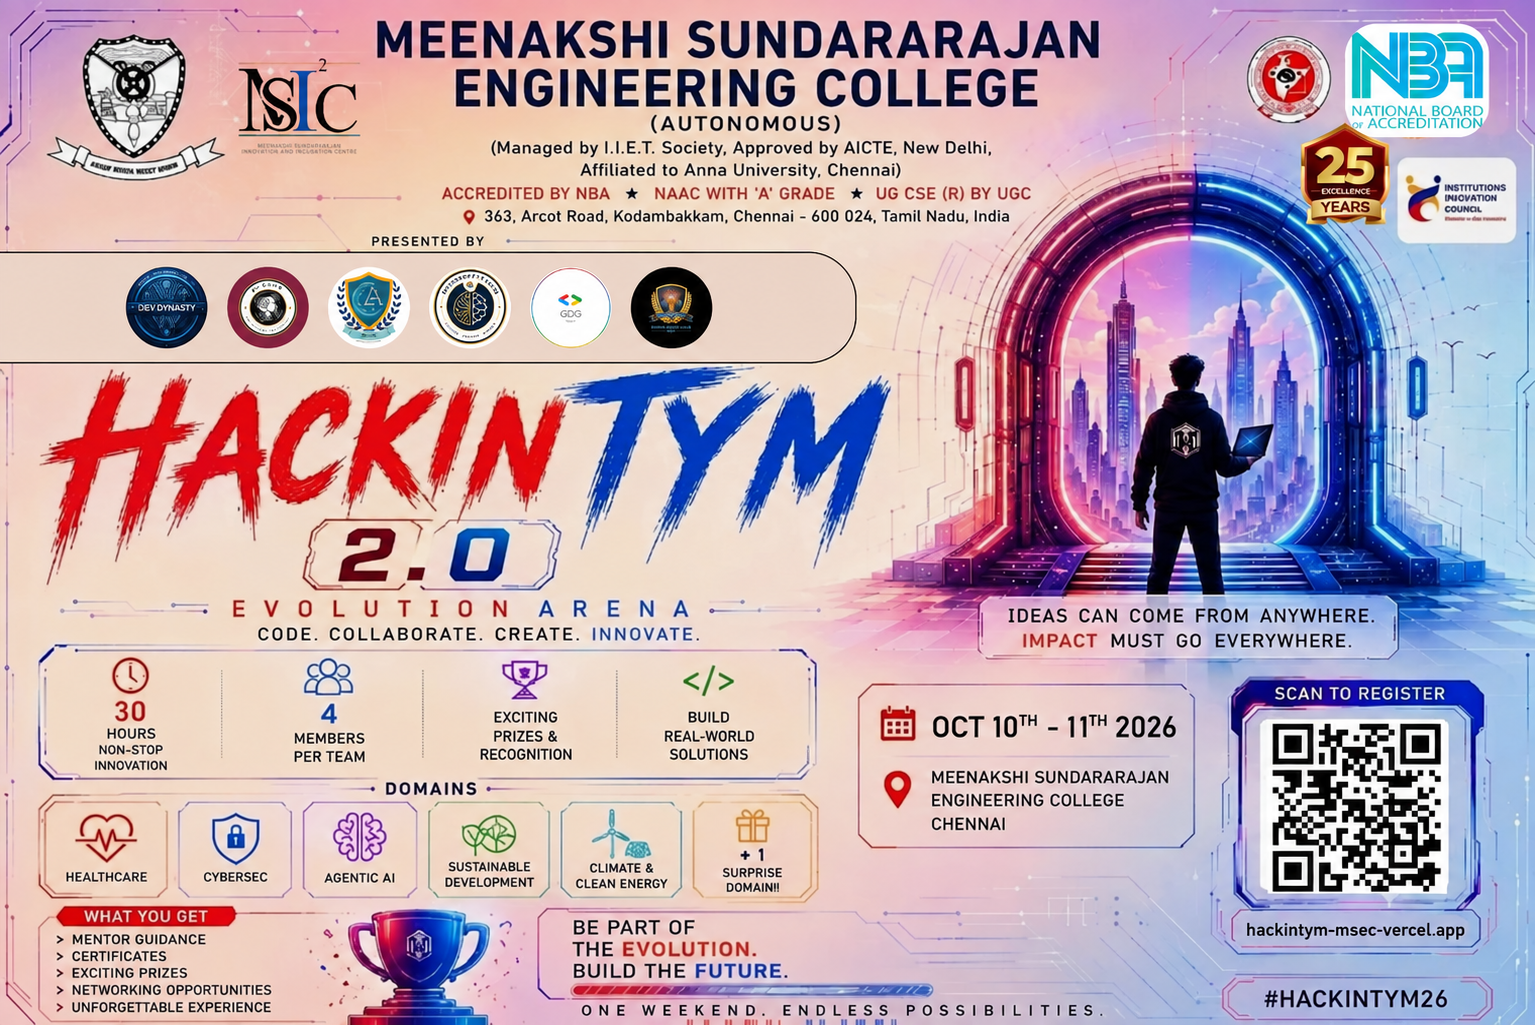
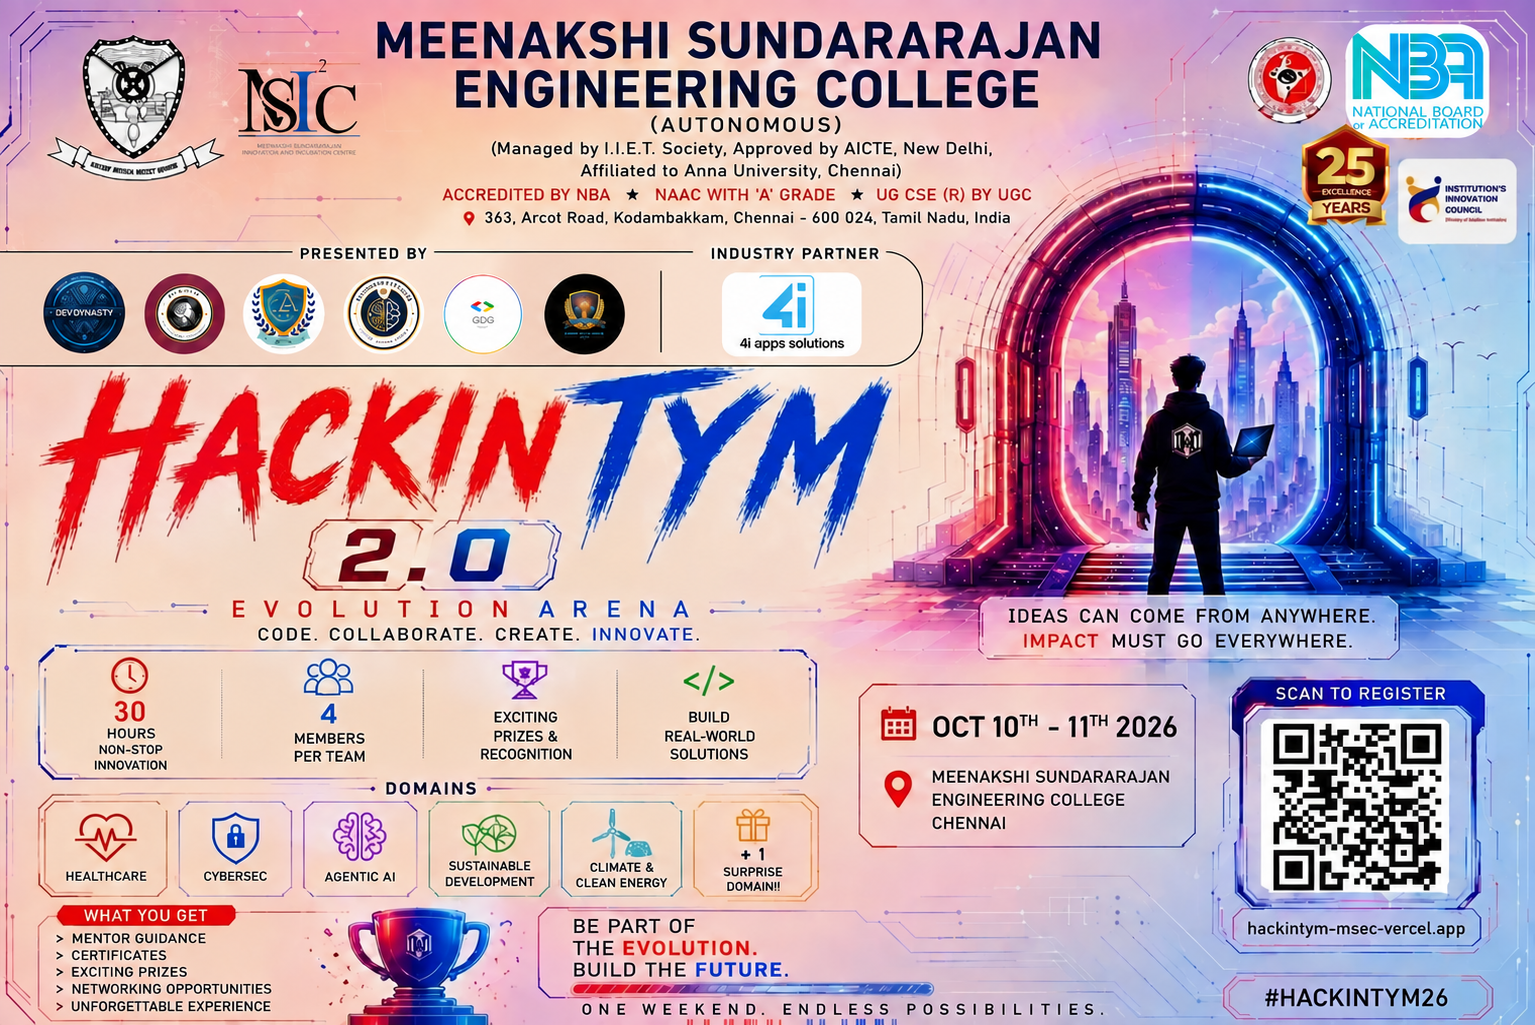
Industry Partner and New Poster Updated

diff --git a/components/main/HeroSection.tsx b/components/main/HeroSection.tsx
@@ -59,27 +59,61 @@ export const HeroSection = forwardRef<HTMLDivElement, HeroSectionProps>(
             </div>
           </div>
 
-          {/* Club Logos in Round Frames */}
+          {/* Club Logos in Round Frames & Industry Partner */}
           <div 
             data-hero-logos
-            className="mt-6 sm:mt-8 flex flex-wrap items-center justify-center gap-3.5 sm:gap-5 md:gap-6 opacity-0"
+            className="mt-6 sm:mt-8 flex flex-col items-center justify-center gap-4 sm:gap-5 opacity-0"
           >
-            {CLUB_LOGOS.map((logo) => (
-              <motion.div 
-                key={logo.id}
-                whileHover={{ scale: 1.15, y: -4 }}
-                transition={{ type: "spring", stiffness: 400, damping: 17 }}
-                className="w-14 h-14 xs:w-16 xs:h-16 sm:w-20 sm:h-20 md:w-22 md:h-22 rounded-full p-[2.5px] bg-gradient-to-tr from-intel-blue via-intel-blue-light to-power-red shadow-[0_0_20px_rgba(0,102,255,0.4)] hover:shadow-[0_0_30px_rgba(0,200,255,0.7)] flex items-center justify-center overflow-hidden shrink-0 transition-all duration-300 group cursor-pointer"
-              >
-                <div className="w-full h-full rounded-full bg-black/90 p-2 sm:p-3 flex items-center justify-center overflow-hidden">
-                  <img 
-                    src={logo.src} 
-                    alt={logo.alt} 
-                    className="w-full h-full object-contain rounded-full transition-transform duration-300 group-hover:scale-105" 
-                  />
-                </div>
-              </motion.div>
-            ))}
+            <div className="flex flex-wrap items-center justify-center gap-3.5 sm:gap-5 md:gap-6">
+              {CLUB_LOGOS.map((logo) => (
+                <motion.div 
+                  key={logo.id}
+                  whileHover={{ scale: 1.15, y: -4 }}
+                  transition={{ type: "spring", stiffness: 400, damping: 17 }}
+                  className="w-14 h-14 xs:w-16 xs:h-16 sm:w-20 sm:h-20 md:w-22 md:h-22 rounded-full p-[2.5px] bg-gradient-to-tr from-intel-blue via-intel-blue-light to-power-red shadow-[0_0_20px_rgba(0,102,255,0.4)] hover:shadow-[0_0_30px_rgba(0,200,255,0.7)] flex items-center justify-center overflow-hidden shrink-0 transition-all duration-300 group cursor-pointer"
+                >
+                  <div className="w-full h-full rounded-full bg-black/90 p-2 sm:p-3 flex items-center justify-center overflow-hidden">
+                    <img 
+                      src={logo.src} 
+                      alt={logo.alt} 
+                      className="w-full h-full object-contain rounded-full transition-transform duration-300 group-hover:scale-105" 
+                    />
+                  </div>
+                </motion.div>
+              ))}
+            </div>
+
+            {/* Official Industry Partner Pill */}
+            <motion.a
+              href="#partner"
+              onClick={(e) => {
+                e.preventDefault()
+                const partnerElem = document.getElementById("partner")
+                if (partnerElem) {
+                  const yOffset = -70
+                  const y = partnerElem.getBoundingClientRect().top + window.pageYOffset + yOffset
+                  window.scrollTo({ top: y, behavior: "smooth" })
+                }
+              }}
+              whileHover={{ scale: 1.04, y: -2 }}
+              whileTap={{ scale: 0.97 }}
+              className="mt-1 sm:mt-2 inline-flex items-center gap-2.5 sm:gap-3 px-4 py-1.5 sm:py-2 rounded-full bg-black/60 border border-intel-blue/40 shadow-[0_0_20px_rgba(0,102,255,0.25)] hover:border-intel-blue hover:shadow-[0_0_30px_rgba(0,200,255,0.5)] backdrop-blur-xl transition-all cursor-pointer group"
+            >
+              <span className="text-[10px] sm:text-xs font-mono tracking-widest text-intel-blue-light uppercase font-semibold">
+                INDUSTRY PARTNER:
+              </span>
+              <div className="h-6 w-auto px-2 py-0.5 rounded bg-white flex items-center justify-center shadow-sm">
+                <img 
+                  src="/logos/4iapps.png" 
+                  alt="4i apps solutions" 
+                  className="h-4.5 w-auto object-contain" 
+                />
+              </div>
+              <span className="text-xs sm:text-sm font-bold tracking-wider text-white group-hover:text-intel-blue-light transition-colors uppercase">
+                4i APPS SOLUTIONS
+              </span>
+              <ArrowRight className="w-3.5 h-3.5 text-intel-blue-light group-hover:translate-x-1 transition-transform" />
+            </motion.a>
           </div>
 
         </div>

diff --git a/components/main/IndustryPartnerSection.tsx b/components/main/IndustryPartnerSection.tsx
@@ -1,0 +1,67 @@
+"use client"
+
+import { useRef } from "react"
+import { motion, useInView } from "framer-motion"
+
+export function IndustryPartnerSection() {
+  const ref = useRef(null)
+  const isInView = useInView(ref, { once: true, margin: "-10%" })
+
+  return (
+    <section
+      ref={ref}
+      id="partner"
+      className="relative py-20 sm:py-28 px-4 sm:px-6 z-10 overflow-hidden"
+    >
+      {/* Background Ambient Glow */}
+      <div className="absolute top-1/2 left-1/2 -translate-x-1/2 -translate-y-1/2 w-[500px] h-[350px] bg-[radial-gradient(circle,rgba(0,102,255,0.18)_0%,rgba(0,200,255,0.05)_50%,transparent_70%)] blur-[80px] pointer-events-none" />
+
+      <div className="max-w-4xl mx-auto relative flex flex-col items-center text-center">
+        {/* Heading */}
+        <motion.div
+          initial={{ opacity: 0, y: 20 }}
+          animate={isInView ? { opacity: 1, y: 0 } : { opacity: 0, y: 20 }}
+          transition={{ duration: 0.8 }}
+          className="mb-8 sm:mb-12"
+        >
+          <h2 className="text-4xl sm:text-6xl md:text-7xl font-black tracking-tighter uppercase text-white">
+            Industry{" "}
+            <span className="text-transparent bg-clip-text bg-gradient-to-r from-intel-blue via-intel-blue-light to-power-red">
+              Partner
+            </span>
+          </h2>
+        </motion.div>
+
+        {/* Logo and Company Name */}
+        <motion.div
+          initial={{ opacity: 0, scale: 0.95, y: 20 }}
+          animate={isInView ? { opacity: 1, scale: 1, y: 0 } : { opacity: 0, scale: 0.95, y: 20 }}
+          transition={{ duration: 0.8, delay: 0.2 }}
+          className="w-full max-w-sm sm:max-w-md"
+        >
+          <div className="relative rounded-3xl p-6 sm:p-8 bg-black/60 border border-white/15 backdrop-blur-2xl shadow-[0_0_50px_rgba(0,102,255,0.25)] hover:border-intel-blue/60 hover:shadow-[0_0_60px_rgba(0,200,255,0.4)] transition-all overflow-hidden flex flex-col items-center">
+            {/* Tech Corner Accents */}
+            <div className="absolute top-4 left-4 w-3.5 h-3.5 border-t-2 border-l-2 border-intel-blue-light/70 pointer-events-none" />
+            <div className="absolute top-4 right-4 w-3.5 h-3.5 border-t-2 border-r-2 border-power-red/70 pointer-events-none" />
+            <div className="absolute bottom-4 left-4 w-3.5 h-3.5 border-b-2 border-l-2 border-power-red/70 pointer-events-none" />
+            <div className="absolute bottom-4 right-4 w-3.5 h-3.5 border-b-2 border-r-2 border-intel-blue-light/70 pointer-events-none" />
+
+            {/* Logo */}
+            <div className="w-full rounded-2xl p-6 sm:p-8 bg-white flex items-center justify-center shadow-lg">
+              <img
+                src="/logos/4iapps.png"
+                alt="4i apps solutions"
+                className="w-full max-w-[260px] sm:max-w-[300px] h-auto object-contain"
+              />
+            </div>
+
+            {/* Company Name */}
+            <h3 className="mt-6 text-xl sm:text-2xl font-black tracking-wider uppercase text-white">
+              4i apps solutions
+            </h3>
+          </div>
+        </motion.div>
+      </div>
+    </section>
+  )
+}

diff --git a/components/main/MainPage.tsx b/components/main/MainPage.tsx
@@ -12,6 +12,7 @@ import { MultiverseTracks } from "./MultiverseTracks"
 import { MissionTimeline } from "./MissionTimeline"
 import { HackathonArena } from "./HackathonArena"
 import { PrizeSection } from "./PrizeSection"
+import { IndustryPartnerSection } from "./IndustryPartnerSection"
 import { DevelopmentTeamSection } from "./DevelopmentTeamSection"
 import { FinalCTA } from "./FinalCTA"
 import { Footer } from "./Footer"
@@ -216,6 +217,9 @@ export function MainPage() {
 
           {/* 10. INFINITY REWARDS */}
           <PrizeSection />
+
+          {/* 10.5. STRATEGIC ALLIANCE - INDUSTRY PARTNER */}
+          <IndustryPartnerSection />
 
           {/* 11. ORGANIZING TEAM */}
           <DevelopmentTeamSection />

diff --git a/components/main/HeaderNav.tsx b/components/main/HeaderNav.tsx
@@ -10,6 +10,7 @@ const NAV_ITEMS = [
   { label: "MISSION", targetId: "mission" },
   { label: "UNIVERSE", targetId: "tracks" },
   { label: "TIMELINE", targetId: "timeline" },
+  { label: "PARTNER", targetId: "partner" },
   { label: "ORG TEAM", targetId: "devteam" },
 ]
 
